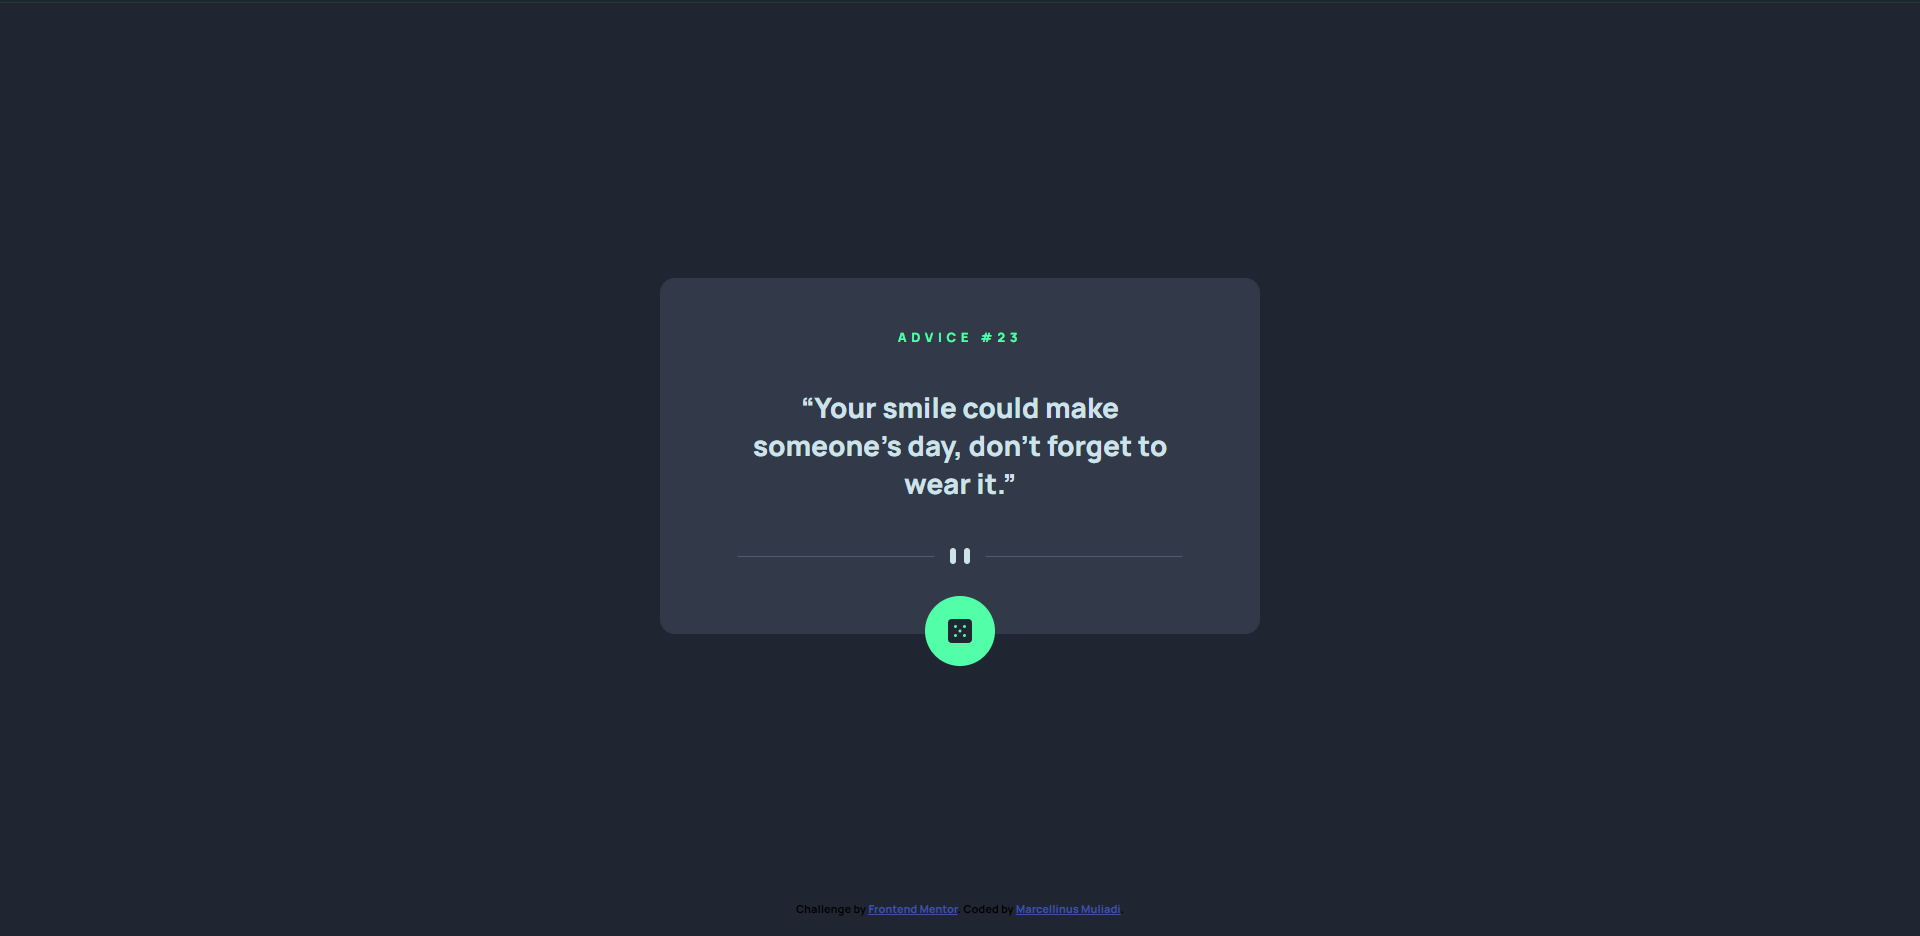
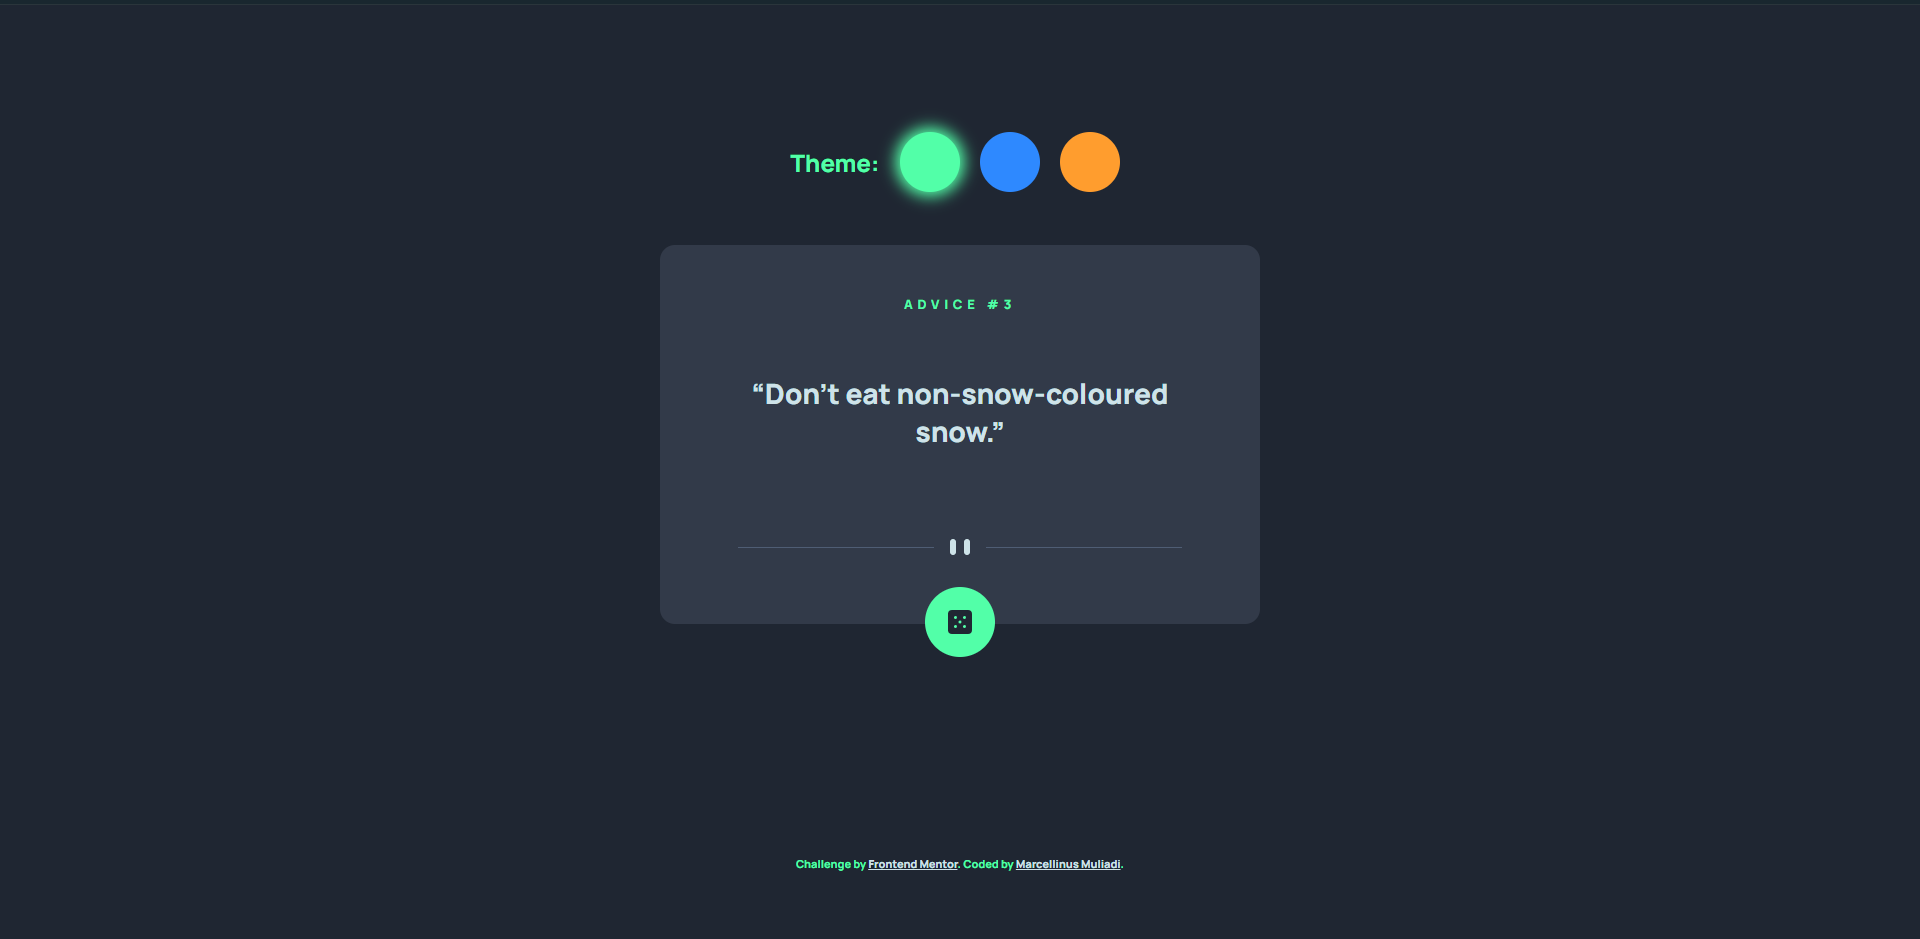
update styling

diff --git a/styles.css b/styles.css
@@ -20,6 +20,15 @@ body {
 
 .color_select {
     display: flex;
+    position: absolute;
+    bottom: 80%;
+    justify-content: center;
+    align-items: center;
+}
+
+.color_select h2 {
+    margin: 0;
+    margin-right: 10px;
 }
 
 .clr {
@@ -54,7 +63,7 @@ body {
 .advice_container {
     display: grid;
     place-items: center;
-    height: 40%;
+    height: 45%;
     width: 100%;
     background-color: hsl(217, 19%, 24%);
     border-radius: 15px;
@@ -87,7 +96,7 @@ body {
     background-image: url("images/pattern-divider-desktop.svg");
     width: 444px;
     height: 16px;
-    margin-top: 200px;
+    margin-top: 225px;
     position: absolute;
 }
 
@@ -99,7 +108,7 @@ body {
     display: grid;
     place-items: center;
     position: absolute;
-    margin-top: 350px;
+    margin-top: 375px;
 }
 
 .button:hover {
@@ -119,7 +128,7 @@ body {
 }
 
 .attribution a {
-    color: hsl(228, 45%, 44%);
+    color: hsl(193, 38%, 86%);
 }
 
 @media (max-width: 380px) {
@@ -130,7 +139,7 @@ body {
 
     .advice_container {
         height: 350px;
-        margin-top: 20%;
+        margin-top: 125px;
     }
 
     .advice_card {
@@ -147,6 +156,29 @@ body {
         width: 295px;
         height: 16px;
         position: absolute;
+    }
+
+    .button {
+        width: 70px;
+        height: 70px;
+        border-radius: 35px;
+        background-color: var(--clr-main, hsl(150, 100%, 66%));
+        display: grid;
+        place-items: center;
+        position: absolute;
+        margin-top: 350px;
+    }
+
+    .color_select {
+        display: flex;
+        position: absolute;
+        bottom: 85%;
+    }
+
+    .clr {
+        padding: 15px;
+        border-radius: 15px;
+        margin: 0 10px;
     }
 }
 

diff --git a/index.html b/index.html
@@ -14,11 +14,11 @@
 
 <body>
   <div class="color_select">
+    <h2>Theme:</h2>
     <div class="clr test3 selected" id="clr3"></div>
     <div class="clr test1" id="clr1"></div>
     <div class="clr test2" id="clr2"></div>
   </div>
-
   <div class="container">
     <div class="advice_container">
       <p class="advice_number">Advice #<span id="id"></span></p>
